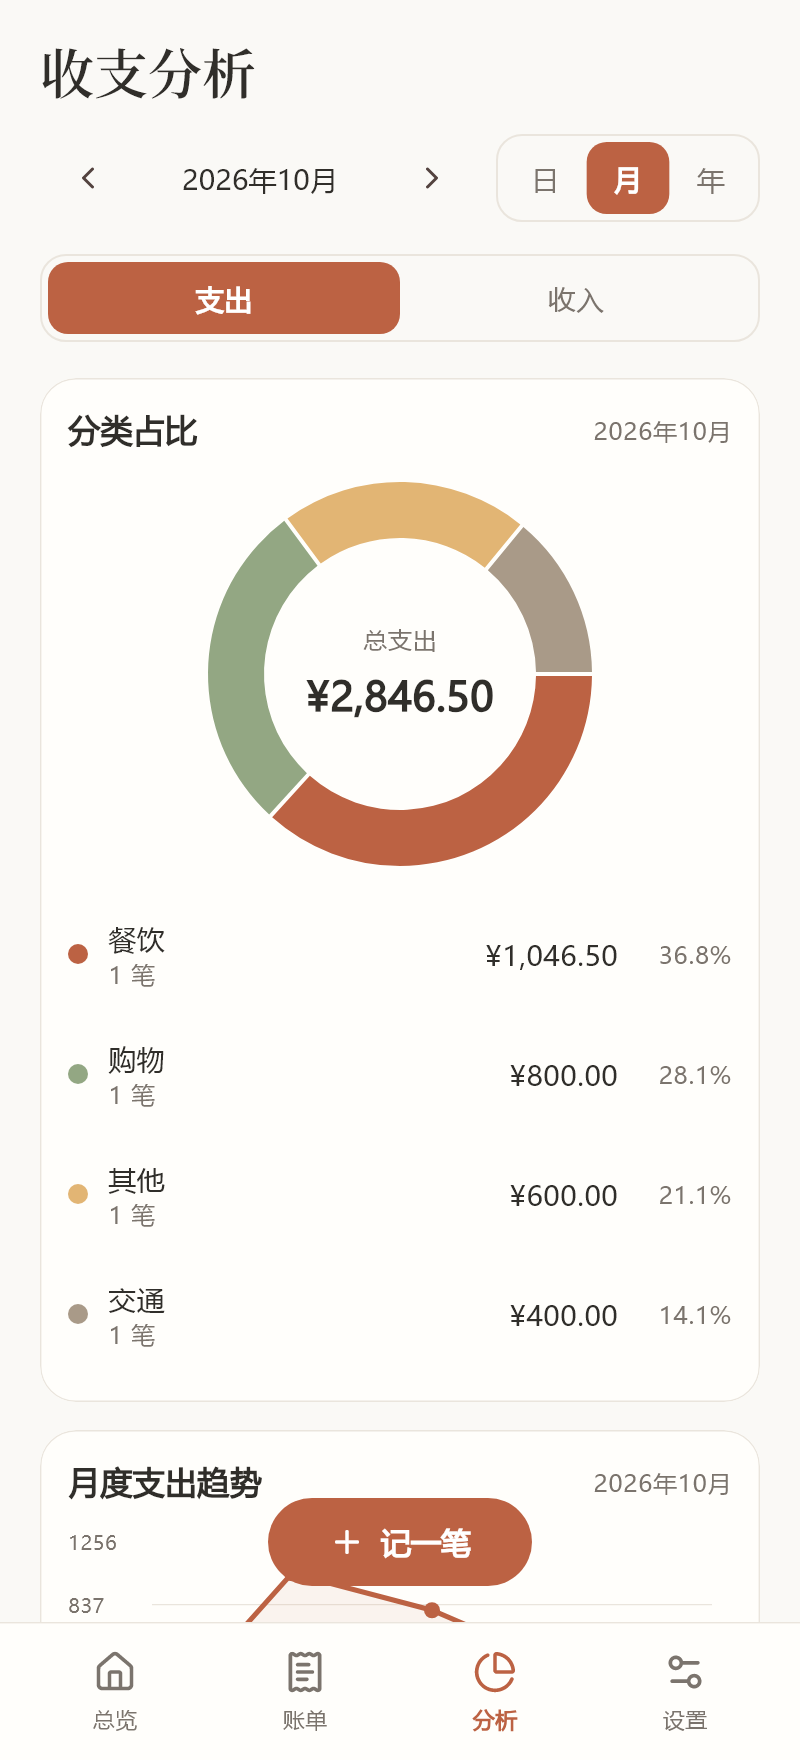
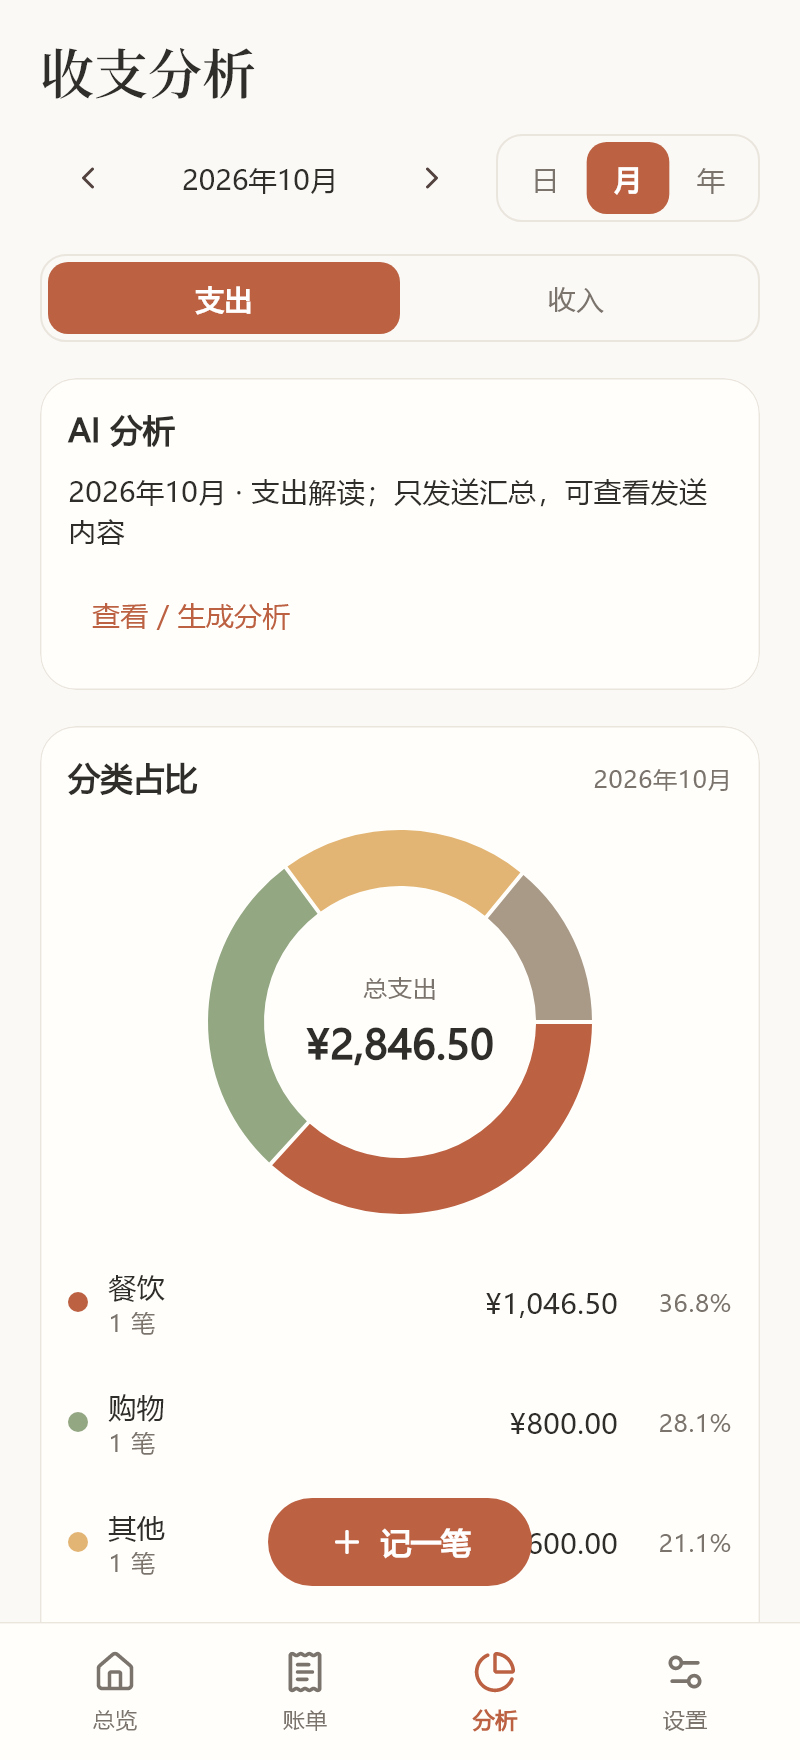
release: document combined beta and strengthen timezone/category regressions

diff --git a/test/wechat_import_test.dart b/test/wechat_import_test.dart
@@ -187,6 +187,25 @@ void main() {
   test(
     'Excel calendar regression preserves wall-clock fields across DST',
     () async {
+      // Assert the CI process actually uses the requested zone.
+      if (!Platform.isWindows) {
+        final zone = Platform.environment['TZ'];
+        final offsets = {'UTC': 0, 'Asia/Shanghai': 8, 'America/New_York': -4};
+        if (offsets.containsKey(zone)) {
+          expect(
+            DateTime(2026, 10, 1).timeZoneOffset,
+            Duration(hours: offsets[zone]!),
+          );
+        }
+        if (zone == 'America/New_York') {
+          final old = DateTime(
+            1899,
+            12,
+            30,
+          ).add(Duration(seconds: (46296.979166666664 * 86400).round()));
+          expect([old.day, old.hour, old.minute], [2, 0, 30]);
+        }
+      }
       for (final expected in [
         DateTime.utc(2026, 10, 1, 23, 30),
         DateTime.utc(2026, 3, 8, 0, 30),
@@ -580,6 +599,34 @@ void main() {
         ),
         contains('1.01'),
       );
+    },
+  );
+  testWidgets(
+    'missing category stays unselected even after select eligible action',
+    (tester) async {
+      final controller = LedgerController(store);
+      await tester.runAsync(() async {
+        await store.db.update('categories', {'active': 0});
+        await controller.initialize();
+      });
+      final items = await tester.runAsync(
+        () => store.previewWechat(parsed([bill()])),
+      );
+      await tester.pumpWidget(
+        MaterialApp(
+          theme: ledgerTheme(false),
+          home: WechatImportScreen(controller: controller, initialItems: items),
+        ),
+      );
+      await tester.pumpAndSettle();
+      expect(find.textContaining('缺少可用分类'), findsOneWidget);
+      await tester.tap(find.text('选择可导入账单'));
+      await tester.pumpAndSettle();
+      expect(find.text('导入 0 笔'), findsOneWidget);
+      expect(items!.single.selected, isFalse);
+      expect(tester.takeException(), isNull);
+      await tester.pumpWidget(const SizedBox());
+      controller.dispose();
     },
   );
   for (final dark in [false, true]) {

diff --git a/lib/ui/wechat_import.dart b/lib/ui/wechat_import.dart
@@ -367,7 +367,7 @@ class _WechatImportScreenState extends State<WechatImportScreen> {
                             ),
                           if (items != null) ...[
                             Text(
-                              '共 ${items.length} 笔 · 可导入 ${items.where((i) => i.disposition == ImportDisposition.ready).length} · 重复 ${items.where((i) => i.disposition == ImportDisposition.duplicate).length}\n待确认 ${items.where((i) => i.disposition == ImportDisposition.review && !i.confirmed).length} · 异常/冲突 ${items.where((i) => i.disposition == ImportDisposition.invalid || i.disposition == ImportDisposition.conflict).length} · 不入账 ${items.where((i) => i.disposition == ImportDisposition.excluded).length}',
+                              '共 ${items.length} 笔 · 可导入 ${items.where((i) => i.disposition == ImportDisposition.ready && !i.needsCategory).length} · 重复 ${items.where((i) => i.disposition == ImportDisposition.duplicate).length}\n待确认 ${items.where((i) => i.disposition == ImportDisposition.review && !i.confirmed).length} · 异常/冲突 ${items.where((i) => i.disposition == ImportDisposition.invalid || i.disposition == ImportDisposition.conflict).length} · 不入账 ${items.where((i) => i.disposition == ImportDisposition.excluded).length}',
                             ),
                             Text(
                               '缺少分类 ${items.where((i) => i.needsCategory).length} 笔 · 已选 ${selected.length} 笔 · 收入 ${money(income)} · 支出 ${money(expense)}',

diff --git a/README.md b/README.md
@@ -9,22 +9,22 @@
 ![Flutter](https://img.shields.io/badge/Flutter-3.47.6-02569B)
 [![MIT](https://img.shields.io/badge/License-MIT-BC6243)](LICENSE)
 
-[下载安卓安装包](https://github.com/ace865/jianzhang/releases/download/v1.0.0-beta.1/jianzhang-1.0.0-beta.1.apk) · [下载源码 ZIP](https://github.com/ace865/jianzhang/releases/download/v1.0.0-beta.1/jianzhang-1.0.0-beta.1-source.zip) · [查看发布记录](https://github.com/ace865/jianzhang/releases/tag/v1.0.0-beta.1)
+[下载安卓 APK](https://github.com/ace865/jianzhang/releases/download/v1.2.0-beta.2/jianzhang-android-1.2.0-beta.2-build4.apk) · [浏览源码](https://github.com/ace865/jianzhang/tree/v1.2.0-beta.2) · [下载源码 ZIP](https://github.com/ace865/jianzhang/releases/download/v1.2.0-beta.2/jianzhang-1.2.0-beta.2-source.zip) · [发布说明](https://github.com/ace865/jianzhang/releases/tag/v1.2.0-beta.2)
 
 ## 安装与试用
 
-当前版本为 `1.0.0-beta.1`，首个安卓公开测试版。支持 Android 7.0 及以上，安装包包含 ARM64、ARMv7 和 x86_64 三种架构。
+当前整合测试版为 `1.2.0-beta.2+4`，同一安装包支持微信导入与可选 AI 分析。支持 Android 7.0 及以上，包含 ARM64、ARMv7 和 x86_64 三种架构。旧版本和附件保留在历史发布页。
 
-1. 在[发布页](https://github.com/ace865/jianzhang/releases/tag/v1.0.0-beta.1)下载 APK（Android Package，安卓安装包）。
-2. 在安卓手机上打开文件，按系统提示允许文件管理器安装应用。
-3. 点击“记一笔”录入收支。点击已有账单可以编辑或删除。
-4. 在“设置”中导出完整备份，再用测试账单检查恢复结果。
+1. 已安装旧版的用户先在设置中导出完整 JSON 备份，保留旧应用，不卸载、不清除数据。
+2. 在[发布页](https://github.com/ace865/jianzhang/releases/tag/v1.2.0-beta.2)下载 APK，按系统提示覆盖安装；同包名、原签名及更高构建号支持升级，但真机升级仍待验收。
+3. “设置 → 导入微信账单”选择 CSV／XLSX，预览分类、重复及特殊交易后确认导入。
+4. 如需 AI，在“设置 → AI 服务”填写完整 HTTPS 聊天端点、模型和个人密钥，再从“分析 → AI 分析”主动预览并发送。测试连接和分析可能产生服务商费用。
 
 首次安装为空账本。建议先验证备份和恢复，再开始记录长期账目。
 
 ## 功能与范围
 
-开发分支新增微信账单导入，支持 CSV / .xlsx 本地预览、去重与分类确认，详见[导入说明](docs/wechat-import.md)。正式下载入口仍指向已发布的 1.0.0-beta.1；新版本等待审阅与验收。
+微信 CSV／XLSX 只在本机解析，支持预览、分类和重复识别，详见[导入说明](docs/wechat-import.md)。AI 是可选功能，不配置接口仍可离线记账，详见 [AI 使用说明](docs/ai-analysis.md)。
 
 | 功能 | 实现内容 |
 | --- | --- |
@@ -35,18 +35,20 @@
 | 日历手账 | 按日查看账单，手动保存每日小记 |
 | 备份与导出 | 导出和恢复完整 JSON 备份，导出 CSV 账单表格 |
 | 界面设置 | 切换暖白陶土和深色暖灰主题，保存主题选择，设置减少动画 |
+| 微信导入 | CSV／XLSX 本地解析、去重、分类调整；退款、转账等需明确确认 |
+| AI 分析 | 自选 OpenAI 兼容接口，统计汇总报告、预算建议、流式追问与加密本地历史 |
 
 预算使用达到 80% 或 100% 时，页面会显示提示。当前没有系统通知功能。
 
-### 开发中的 AI 分析（待审阅，未发布）
+### 可选 AI 分析
 
-`feat/ai-analysis` 计划版本为 `1.2.0-beta.1+3`：分析页提供汇总报告与追问，设置页填写完整 HTTPS 聊天端点、模型和自己的密钥。默认逐步回复，也可切换完整回复。报告及聊天独立加密保存在本机，支持历史查看和删除。
+分析页提供汇总报告与追问，设置页填写完整 HTTPS 聊天端点、模型和自己的密钥。默认逐步回复，也可切换完整回复。报告及聊天独立加密保存在本机，支持历史查看和删除。
 
 只有用户主动确认发送时联网；发送统计汇总、分类名称和必要聊天上下文，不上传单笔账单、备注、小记或原始支付文件。AI 不修改账本。记录和密钥不包含在账本备份中，服务商可能计费及保留数据。详见 [AI 使用与隐私说明](docs/ai-analysis.md)。
 
-此功能使用独立分支，不包含仍待审阅的微信导入 PR #1；真实服务商和真机能力尚未验证。上方下载链接仍是已发布的旧版本，不包含 AI 功能。
+当前安装包已整合微信导入与 AI；真实服务商兼容性和手机安全存储尚未验证。
 
-收支由你手动录入，应用没有自动读取支付账单或云同步功能。“结余”表示所选期间收入减支出；支付方式用于标记账单，应用不管理银行或支付账户余额。
+收支由你手动录入或主动导入微信文件，应用不会自动读取支付账户，也没有云同步功能。“结余”表示所选期间收入减支出；支付方式用于标记账单，应用不管理银行或支付账户余额。
 
 ## 界面预览
 
@@ -60,6 +62,14 @@
 | :---: | :---: | :---: | :---: |
 | <img src="docs/images/dark-overview.png" alt="深色总览" width="210"> | <img src="docs/images/dark-ledger.png" alt="深色账单" width="210"> | <img src="docs/images/dark-analysis.png" alt="深色分析" width="210"> | <img src="docs/images/dark-entry.png" alt="深色记账" width="210"> |
 
+### 新功能预览
+
+以下同样是虚构账本及模拟 AI 回复的应用渲染，不是真机或真实模型结果。
+
+| 微信导入 · 浅色 | 微信导入 · 深色 | AI 分析 · 浅色 | AI 分析 · 深色 |
+| :---: | :---: | :---: | :---: |
+| <img src="docs/images/light-wechat-import.png" width="210" alt="浅色导入"> | <img src="docs/images/dark-wechat-import.png" width="210" alt="深色导入"> | <img src="docs/images/light-ai-analysis.png" width="210" alt="浅色 AI"> | <img src="docs/images/dark-ai-analysis.png" width="210" alt="深色 AI"> |
+
 ## 数据保存与备份
 
 账单保存在本机 SQLite 数据库中。完整 JSON（JavaScript Object Notation，数据交换格式）备份包含账单、分类、预算、每日小记和设置。CSV（Comma-Separated Values，逗号分隔值）导出用于表格查看，不支持完整恢复。
@@ -72,16 +82,16 @@
 
 ## 验证状态
 
-`1.0.0-beta.1` 的验证记录包含以下结果：
+`1.2.0-beta.2+4` 的验证范围：
 
-- Flutter 静态检查通过，20 项自动化测试通过。
-- Android 调试包和个人签名发行包构建成功，发行包签名校验通过。
+- Flutter 静态检查、78 项自动化测试、Android 调试和原签名发行构建；实际结果见[本版验证记录](docs/verification-1.2.0-beta.2.md)。
+- 自动检查增加 UTC、上海和纽约时区的 Excel 日历回归。
 - 金额处理、日期边界、账单筛选、备份往返、损坏备份保护和事务回滚已有测试覆盖。
 - 界面测试覆盖记账、编辑、删除、主题切换，以及部分小屏和字体放大场景。
 
 GitHub Actions 会检查代码格式、运行静态检查和测试，并构建 Android 调试包。结果见[自动检查记录](https://github.com/ace865/jianzhang/actions/workflows/check.yml)。
 
-手机安装、系统文件选择器、杀进程或重启后的数据保留，以及同签名覆盖升级仍待真机验收。帧率、功耗和冷启动时间尚无测量结果。完整范围见[版本验证记录](docs/verification-1.0.0-beta.1.md)。
+手机安装、系统文件选择器、手机安全存储、真实 AI 服务，以及同签名覆盖升级仍待真机验收。帧率、功耗和冷启动时间尚无测量结果。完整范围见[版本验证记录](docs/verification-1.2.0-beta.2.md)。本次发布经用户明确授权例外合并，请 songyu 补审，不代表已获协作者批准。
 
 ## 源码与开发
 
@@ -120,7 +130,7 @@ flutter build apk --debug --no-pub
 
 官方升级包由维护者使用原签名构建。协作者使用自己的测试签名，测试包无法覆盖官方签名版本。当前工程在未配置发行签名时，会使用调试签名构建 release 包；发布前必须确认签名配置。
 
-版本源码 ZIP 以 `v1.0.0-beta.1` 标签为基础，补充许可证和构建文档。附件中的应用代码与已发布安装包对应，具体说明见[源码版本说明](docs/SOURCE_VERSION.md)。主分支会继续更新。
+新版源码 ZIP 完整来自 `v1.2.0-beta.2` 标签，包含 Flutter/Android 工程、锁文件、测试、构建脚本和文档，与本版 APK 对应。旧首版附件的补充文档规则仍保留，见[源码版本说明](docs/SOURCE_VERSION.md)。主分支会继续更新。
 
 ## 反馈与共创
 

diff --git a/docs/verification-1.2.0-beta.2.md b/docs/verification-1.2.0-beta.2.md
@@ -1,0 +1,32 @@
+# 1.2.0-beta.2+4 整合版验证记录
+
+日期：2026-10-05。负责人：ace865 / Codex。发布源码以 `v1.2.0-beta.2` 标签为准，源码提交及附件 SHA-256 在对应 GitHub Release 中记录。
+
+## 变更与发布边界
+
+整合微信 CSV／XLSX 导入和可选 AI 报告、追问、加密本地历史。修复 songyu 在 PR #1 提出的日期时区偏移和分类不足阻塞预览问题。数据库与备份为 v2，保留 v1 迁移及旧备份恢复，拒绝打开更高数据库版本。AI 存储格式、命名空间、端点密钥绑定不变。
+
+本次用户明确授权在本地和远端检查通过后例外合并发布，以交付同一安装包中的两项功能。协作记录见 [PR #4](https://github.com/ace865/jianzhang/pull/4)，已通知 songyu00yo 补审；这不是协作者批准，不改变后续审阅流程。旧标签及附件保持原样。
+
+## 已完成的自动验证
+
+- Flutter 3.47.6 / Dart 3.13.5，JDK 21，Android SDK 36；依赖锁文件安装、代码格式和静态检查。
+- 78 项测试：账本/主界面 21 项、微信导入 22 项、AI 核心 29 项、AI 界面 6 项。仅虚构账本、模拟 HTTP/SSE 和内存安全存储，不发送真实付费请求。
+- Excel 1900／1904 日期系统、午夜和夏令时附近日历字段；GitHub Linux 检查在 UTC、上海、纽约执行，并校验进程实际时区。纽约验证旧算法会将虚构 2026-10-01 23:30 移到次日 00:30，新算法保持原字段。
+- 无收入分类时失败收入不阻塞有效支出；有效条目缺分类默认不选；全部分类停用、重复条目和恢复分类后预览；已选分类被停用全部回滚，未选条目不阻塞。界面“选择可导入账单”不会误选缺分类条目。
+- 数据库 v1→v2 各旧表保留、现有 v2 重启、旧备份恢复、新备份往返及恢复后去重。模拟来源写入失败整批回滚，拒绝 DB3 降级且保留原记录。
+- 导入后整数金额、统计、预算、检索、CSV 导出；AI 快照变化、旧报告保持原快照、界面过期提醒；商户、订单号、备注不出现在 AI 汇总中。
+- AI 配置、密钥和加密历史在数据库重启/备份恢复后保留，备份不含 AI 记录或密钥，重启不自动重发请求。协议、取消、超时、证书拒绝及重定向拦截等既有回归保留。
+- 双主题、小屏、字体放大、模拟键盘 inset 和流式交互。图片由 Flutter 测试渲染虚构数据，不是真机或真实模型效果。
+- Android debug 与维护者原签名 release 构建。包名 `cn.local.jianzhang`，版本 `1.2.0-beta.2`，versionCode `4`；minSdk24 / targetSdk36，ARM64、ARMv7、x86_64。
[1 lines of base64/hex data omitted]
+
+远端最终检查见 [GitHub Actions](https://github.com/ace865/jianzhang/actions/workflows/check.yml)，发布前须确认最终候选源码全部成功。源码 ZIP 由标签打包，脚本逐个校验 Git blob 摘要，无工作区文档混入；发布附件不进入 Git 历史。
+
+## 尚未完成的真机验收
+
+没有连接真机，不做模拟器测试。手机安装、覆盖升级、文件选择、原始微信 CSV 和 GB18030 原生解码、系统安全存储、杀进程后的持久化、实际网络/服务商计费与兼容性、帧率/功耗/冷启动尚未验证。自动测试不替代这些结果；iOS 工程未实现。
+
+同应用标识、原签名和更高构建号支持覆盖 1.0、1.1 微信导入开发版和 1.2 AI 独立开发版。迁移与保留已有 v2 的自动回归通过，但不能据此宣称所有手机已验收。先导出 JSON 备份并复制到应用之外，直接覆盖安装，不卸载、不清除数据；安装拒绝时保留旧应用并反馈。测试版先用测试账本，不承诺长期真实数据安全。
+
+本版仍为 beta 预发布，不升级为 rc/正式版。AI 兼容性仅模拟验证，密钥只在应用内填写，不通过 Issue、PR 或聊天提供。服务商可能保留发送数据，删除本机聊天不等于删除服务商副本。

diff --git a/docs/wechat-import.md b/docs/wechat-import.md
@@ -1,6 +1,6 @@
 # 微信账单导入
 
-本功能属于 1.1.0-beta.1 开发分支，审阅合并前不视为已发布。
+本功能已整合到 `1.2.0-beta.2+4`，与可选 AI 分析在同一安装包中提供。
 
 ## 应用渲染预览
 
@@ -12,7 +12,7 @@
 
 ## 使用与规则
 
-在设置中选择“导入微信账单”，选择已解压的 CSV 或 .xlsx，预览、修改分类与勾选后确认导入。取消不写入账本。文件在手机本地读取，不增加联网权限，不自动读取微信账户，不支持 ZIP、PDF、加密表格或旧 .xls。
+在设置中选择“导入微信账单”，选择已解压的 CSV 或 .xlsx，预览、修改分类与勾选后确认导入。取消不写入账本。导入流程只在本机执行、不联网，不自动读取微信账户，不支持 ZIP、PDF、加密表格或旧 .xls。应用的联网权限只用于主动调用可选 AI 服务。
 
 按列名识别表头，支持说明行、UTF-8/GB18030 CSV、Excel 日期数值与文本日期。金额保存为整数分，不接受超出两位小数的金额。上限为 20 MB、20,000 条明细，超限请分段导出。无法可靠恢复的数值型长订单号、公式及坏字段显示异常，不执行公式或外部链接。
 
@@ -24,6 +24,7 @@
 | 缺少单号、疑似手工重复 | 默认不选，用户明确确认后可导入 |
 | 退款、转账、充值、提现及未知状态 | 单独待确认；可作为收入或支出选入，但不会抵扣旧消费 |
 | 失败、关闭或撤销交易 | 不入账 |
+| 缺少对应可用分类 | 仅该条默认不选，启用/添加分类后重新预览，不影响其他账单 |
 | 确认导入 | 重新校验分类和重复信息，事务内一次写入 |
 | 写入失败 | 全部回滚，提示重新预览 |
 | 写入成功 | 显示成功、重复跳过、未选入数量，刷新统计 |

diff --git a/docs/BUILD.md b/docs/BUILD.md
@@ -8,7 +8,7 @@
 
 Flutter **3.47.6 stable**（自带 Dart 3.13.5）、JDK **21**、Android SDK Platform **36**、Platform Tools 及 Android 命令行工具。使用 `flutter doctor -v` 检查工具链，`flutter doctor --android-licenses` 接受 SDK 许可。NDK / CMake 由工具链按工程配置安装。
 
-源码 ZIP 解压后进入包含 `pubspec.yaml` 的目录。附件应用代码对应 `v1.0.0-beta.1`，补充文档见[源码版本说明](SOURCE_VERSION.md)。
+源码 ZIP 解压后进入包含 `pubspec.yaml` 的目录。当前附件完整对应 `v1.2.0-beta.2` 标签；首版历史补充文档规则见[源码版本说明](SOURCE_VERSION.md)。
 
 ## 安装依赖与检查
 
@@ -22,7 +22,7 @@ flutter build apk --debug --no-pub
 
 debug 产物为 `build/app/outputs/flutter-apk/app-debug.apk`。Flutter 会准备所需 Gradle 启动文件与本地配置。界面测试在 `output/test-artifacts/` 生成样例渲染图，不需要模拟器。GitHub Actions 已验证 Linux 环境的检查和 Android debug 构建。
 
-AI 开发分支要求 Dart 3.13 及以上（本项目所列 Flutter 已包含）。新增依赖支持 Android/iOS 的共享 API，但当前仅构建 Android。开发分支不等于下载页已发布版本，兼容边界见 [AI 验证记录](verification-1.2.0-beta.1.md)。
+项目要求 Dart 3.13 及以上（本项目所列 Flutter 已包含）。依赖支持 Android/iOS 的共享 API，但当前仅构建 Android。整合版的检查和未验收项见 [本版验证记录](verification-1.2.0-beta.2.md)。
 
 ## 个人签名发行包（Windows PowerShell）
 

diff --git a/docs/SOURCE_VERSION.md b/docs/SOURCE_VERSION.md
@@ -2,7 +2,7 @@
 
 ## 新版本
 
-从 1.1.0-beta.1 起，源码 ZIP 完整来自对应发布标签，不追加工作区文件。产品版本和构建号以包内 `pubspec.yaml` 为准，标签为 `v产品版本`；发布页记录对应提交和 SHA-256。当前 1.1.0-beta.1 开发分支等待审阅，尚未建立发布标签。
+新版源码 ZIP 完整来自对应发布标签，不追加工作区文件。当前整合版为 `1.2.0-beta.2+4`，标签 `v1.2.0-beta.2`；发布页记录对应提交和 SHA-256。此前 1.1.0 和 1.2.0-beta.1 只分发过开发包，没有公开 Release。产品版本和构建号以包内 `pubspec.yaml` 为准。
 
 ## 首个测试版的历史附件
 
